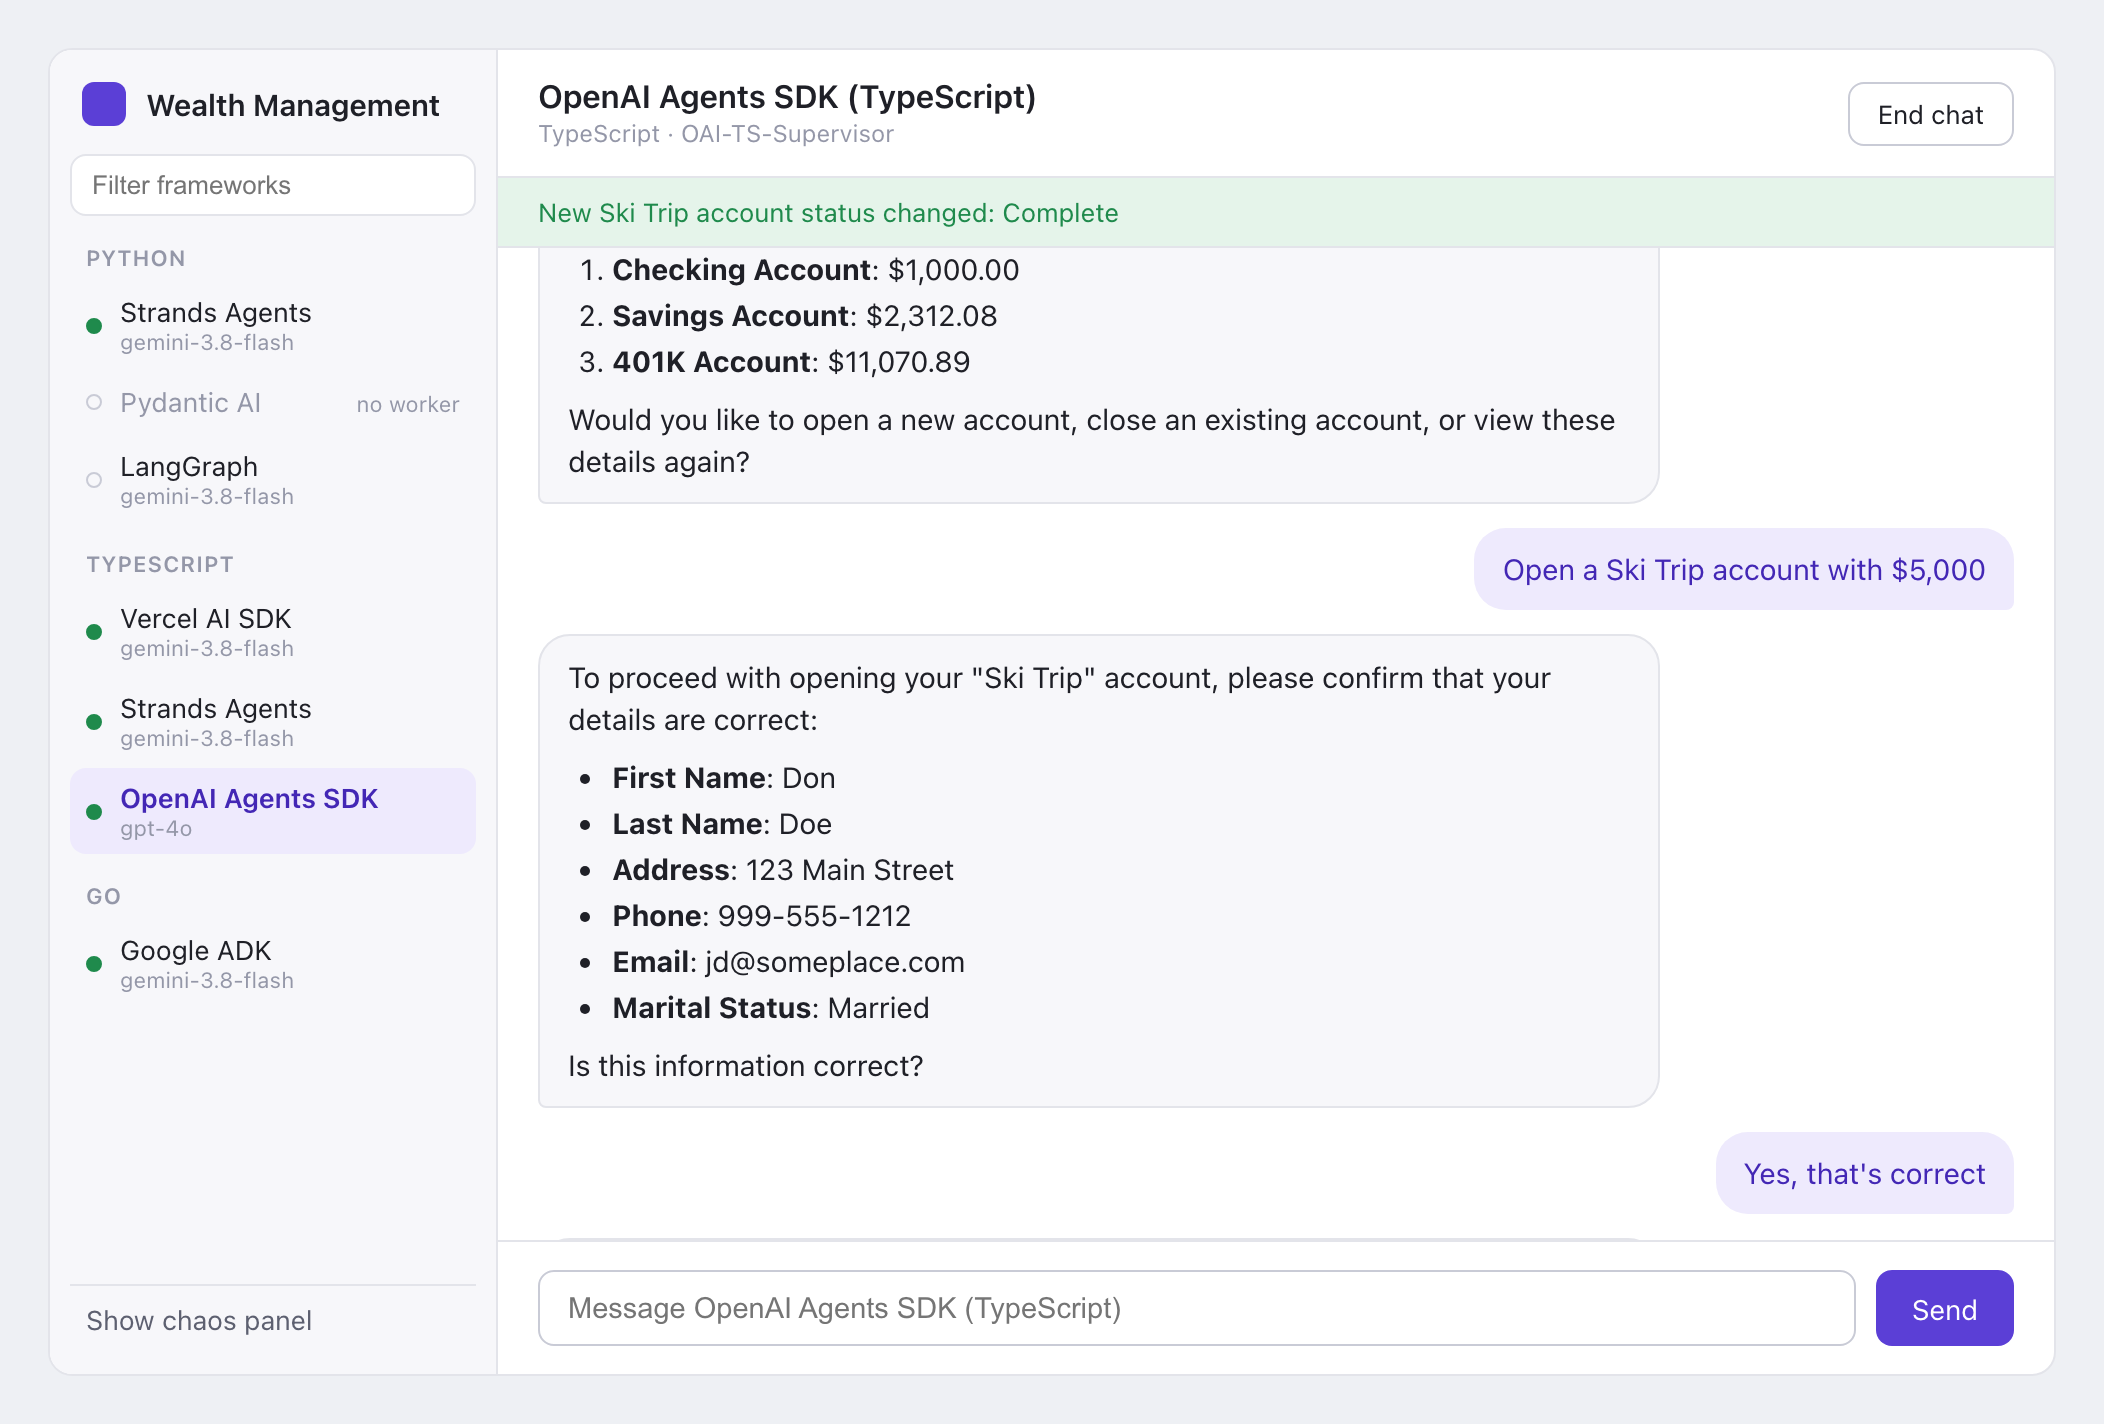
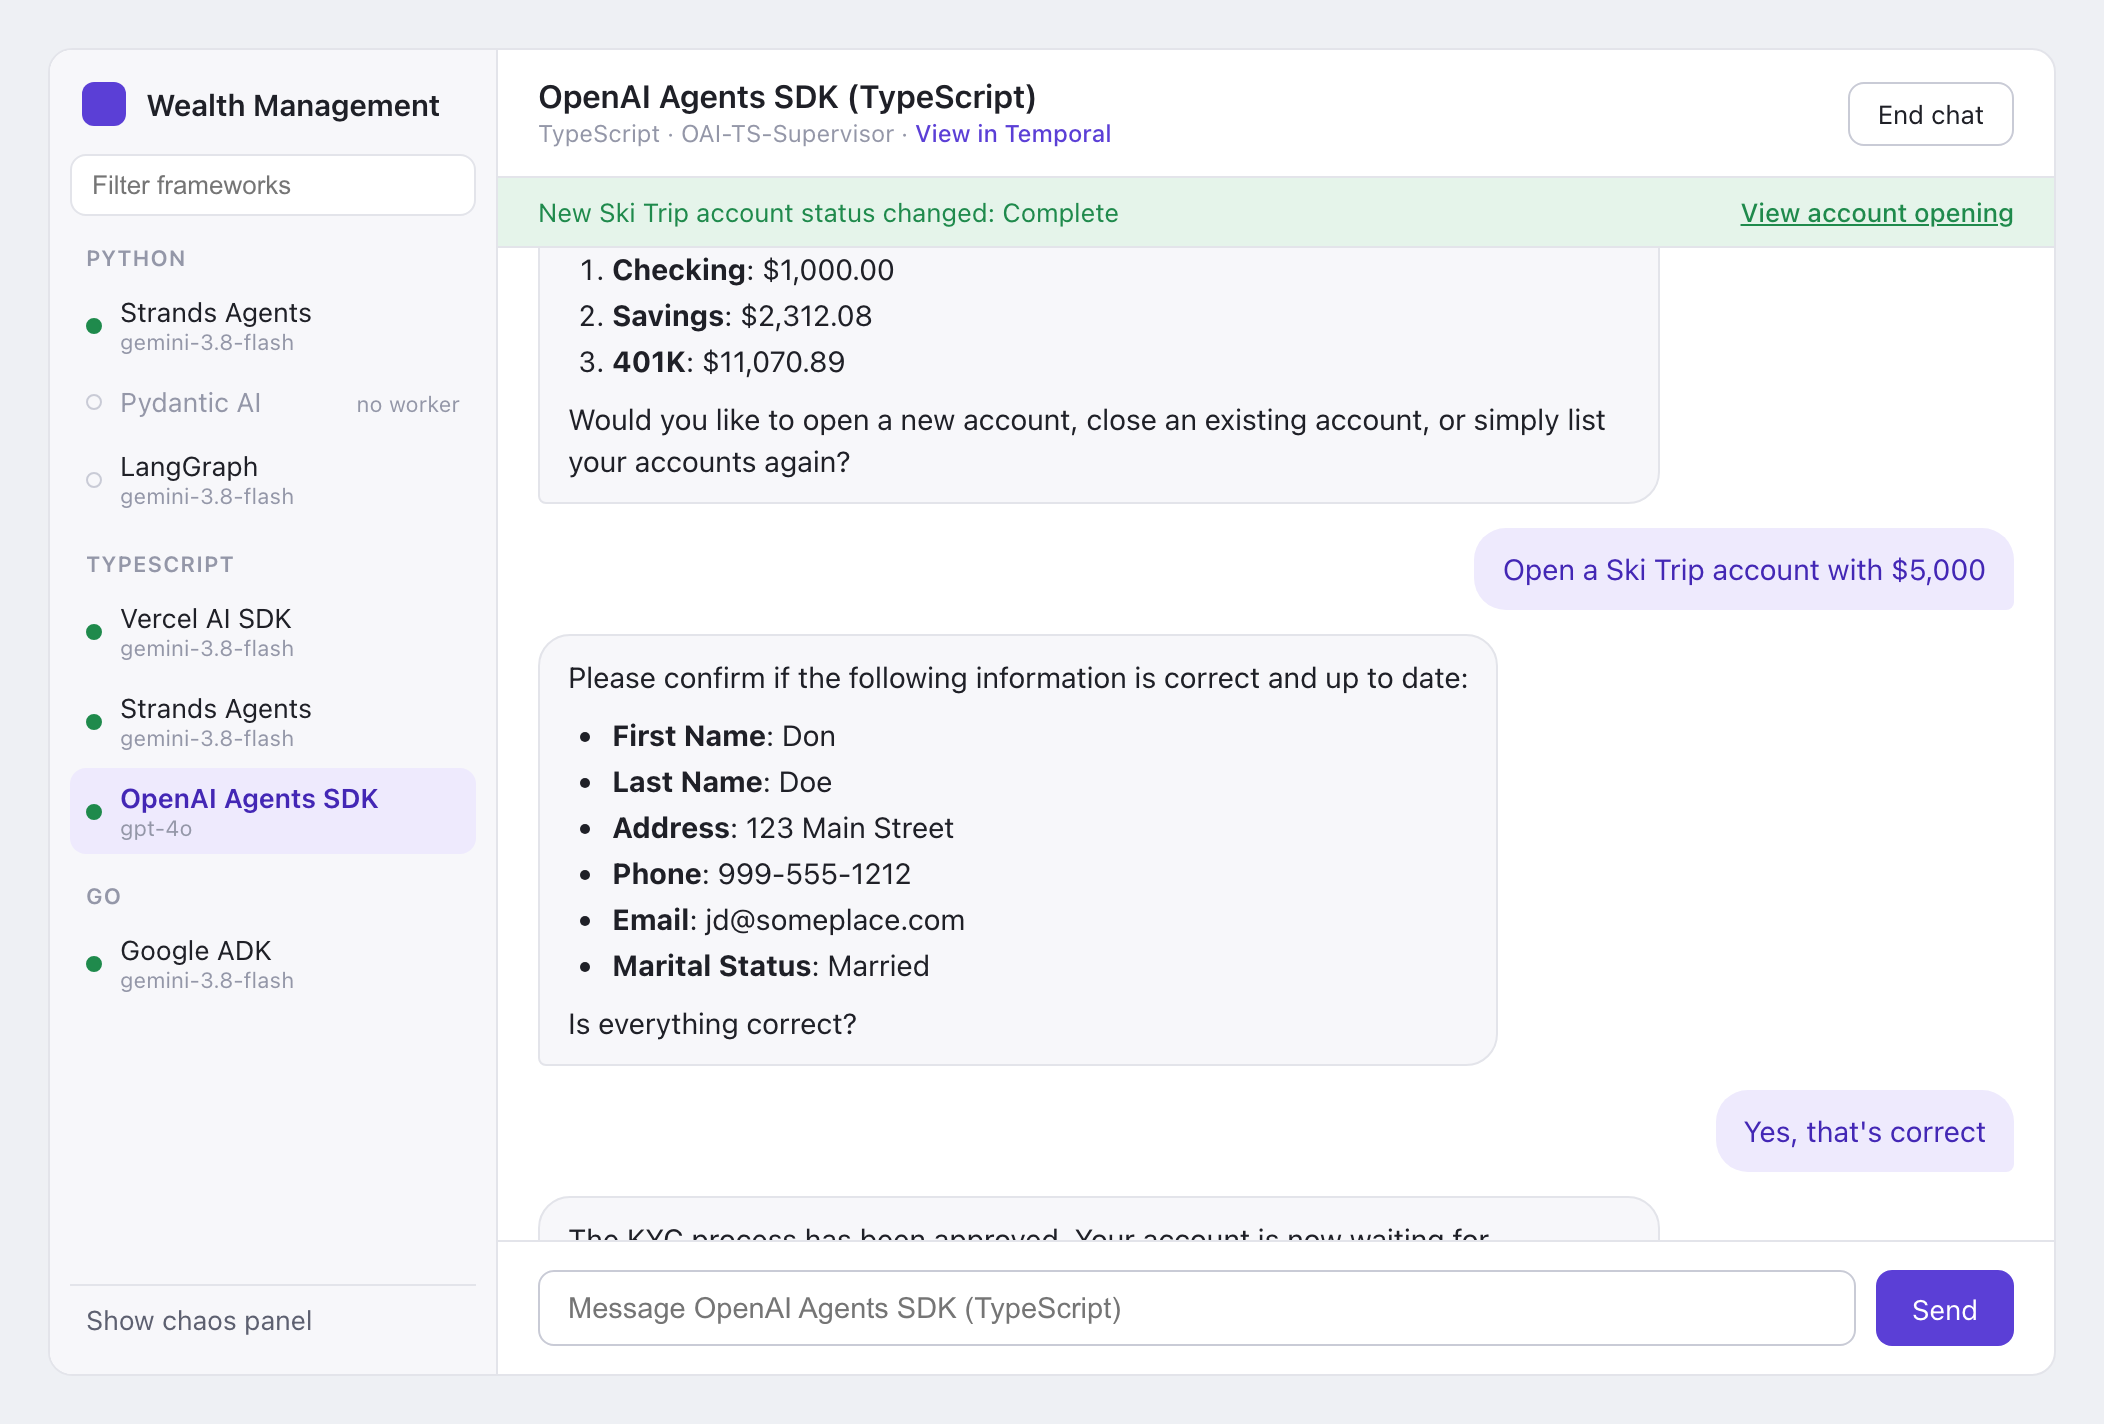
Retake the web UI screenshots with the Temporal UI links and an injected failure
The frontend README's two screenshots predated the links to the Temporal UI. Retaken in the same
scene and size: webui-frameworks.png shows View in Temporal in the chat header and View account
opening on the completed opening's status line; webui.png also has the chaos panel scrolled to two
"Core banking API down" failures from that chat, each with View workflow. The README's caption
says so.

diff --git a/frontend/README.md b/frontend/README.md
@@ -118,7 +118,8 @@ npm test
 
 ## Example
 
-Here's the web application with seven frameworks, a chat running in five of them, and the chaos panel open. The sidebar
+Here's the web application with seven frameworks, a chat running in five of them, and the chaos panel open, scrolled
+to two injected failures, each with a link to the workflow it hit. The sidebar
 lists the frameworks the API serves (from its `GET /api/config`), and **Show chaos panel** / **Hide chaos panel** at its bottom
 opens or hides the chaos panel, which turns failures on and off while you chat. Next to it, the sidebar shows how many
 flags are on:
